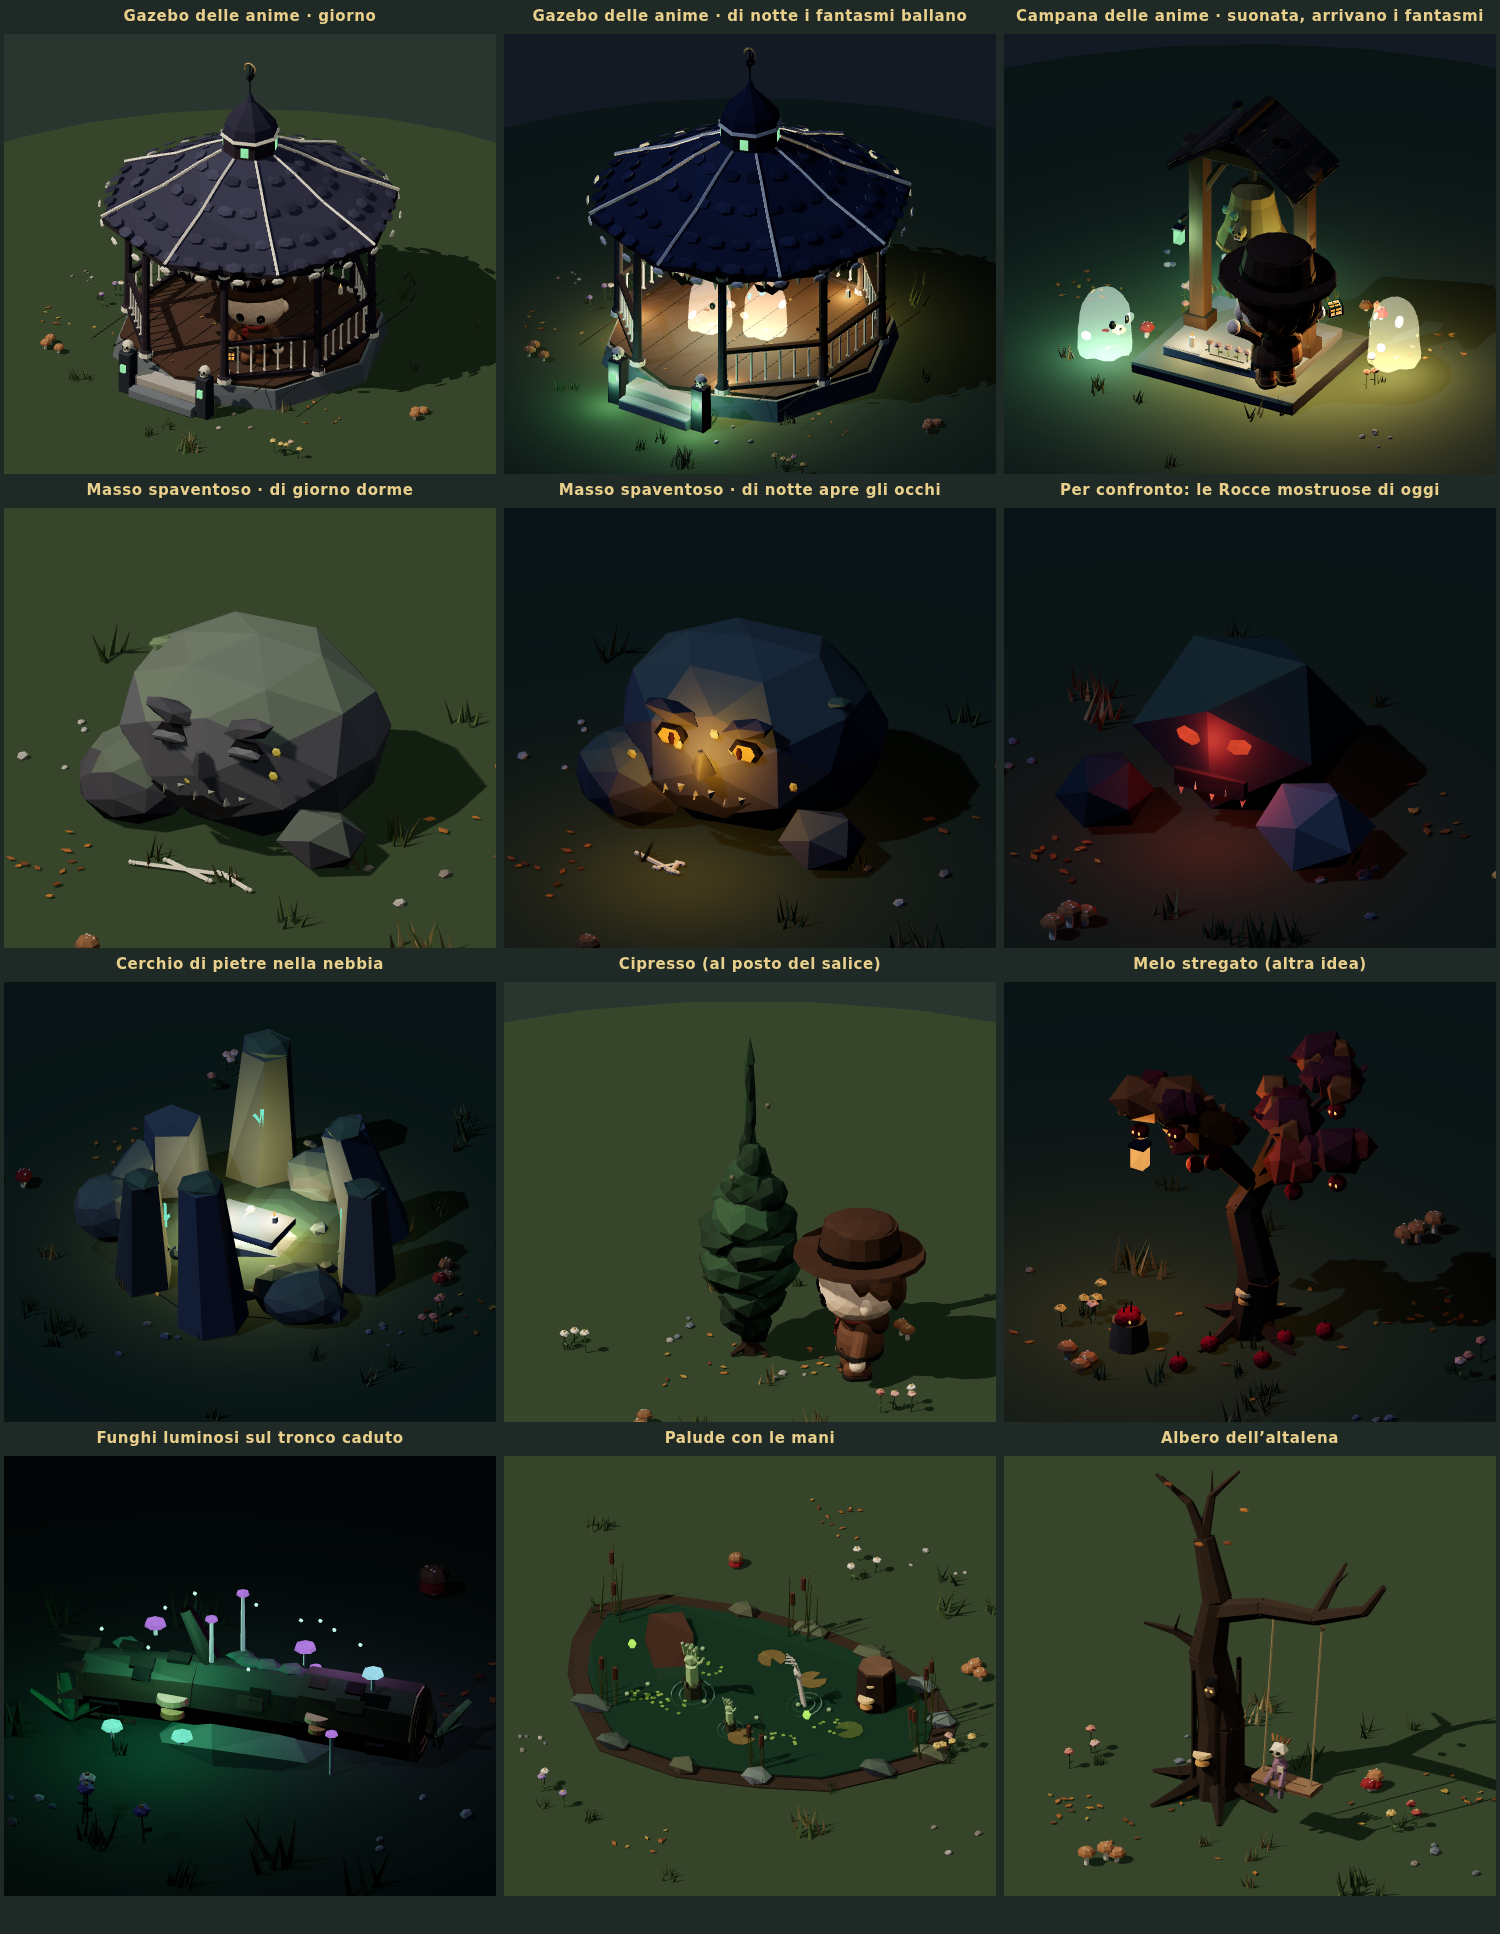
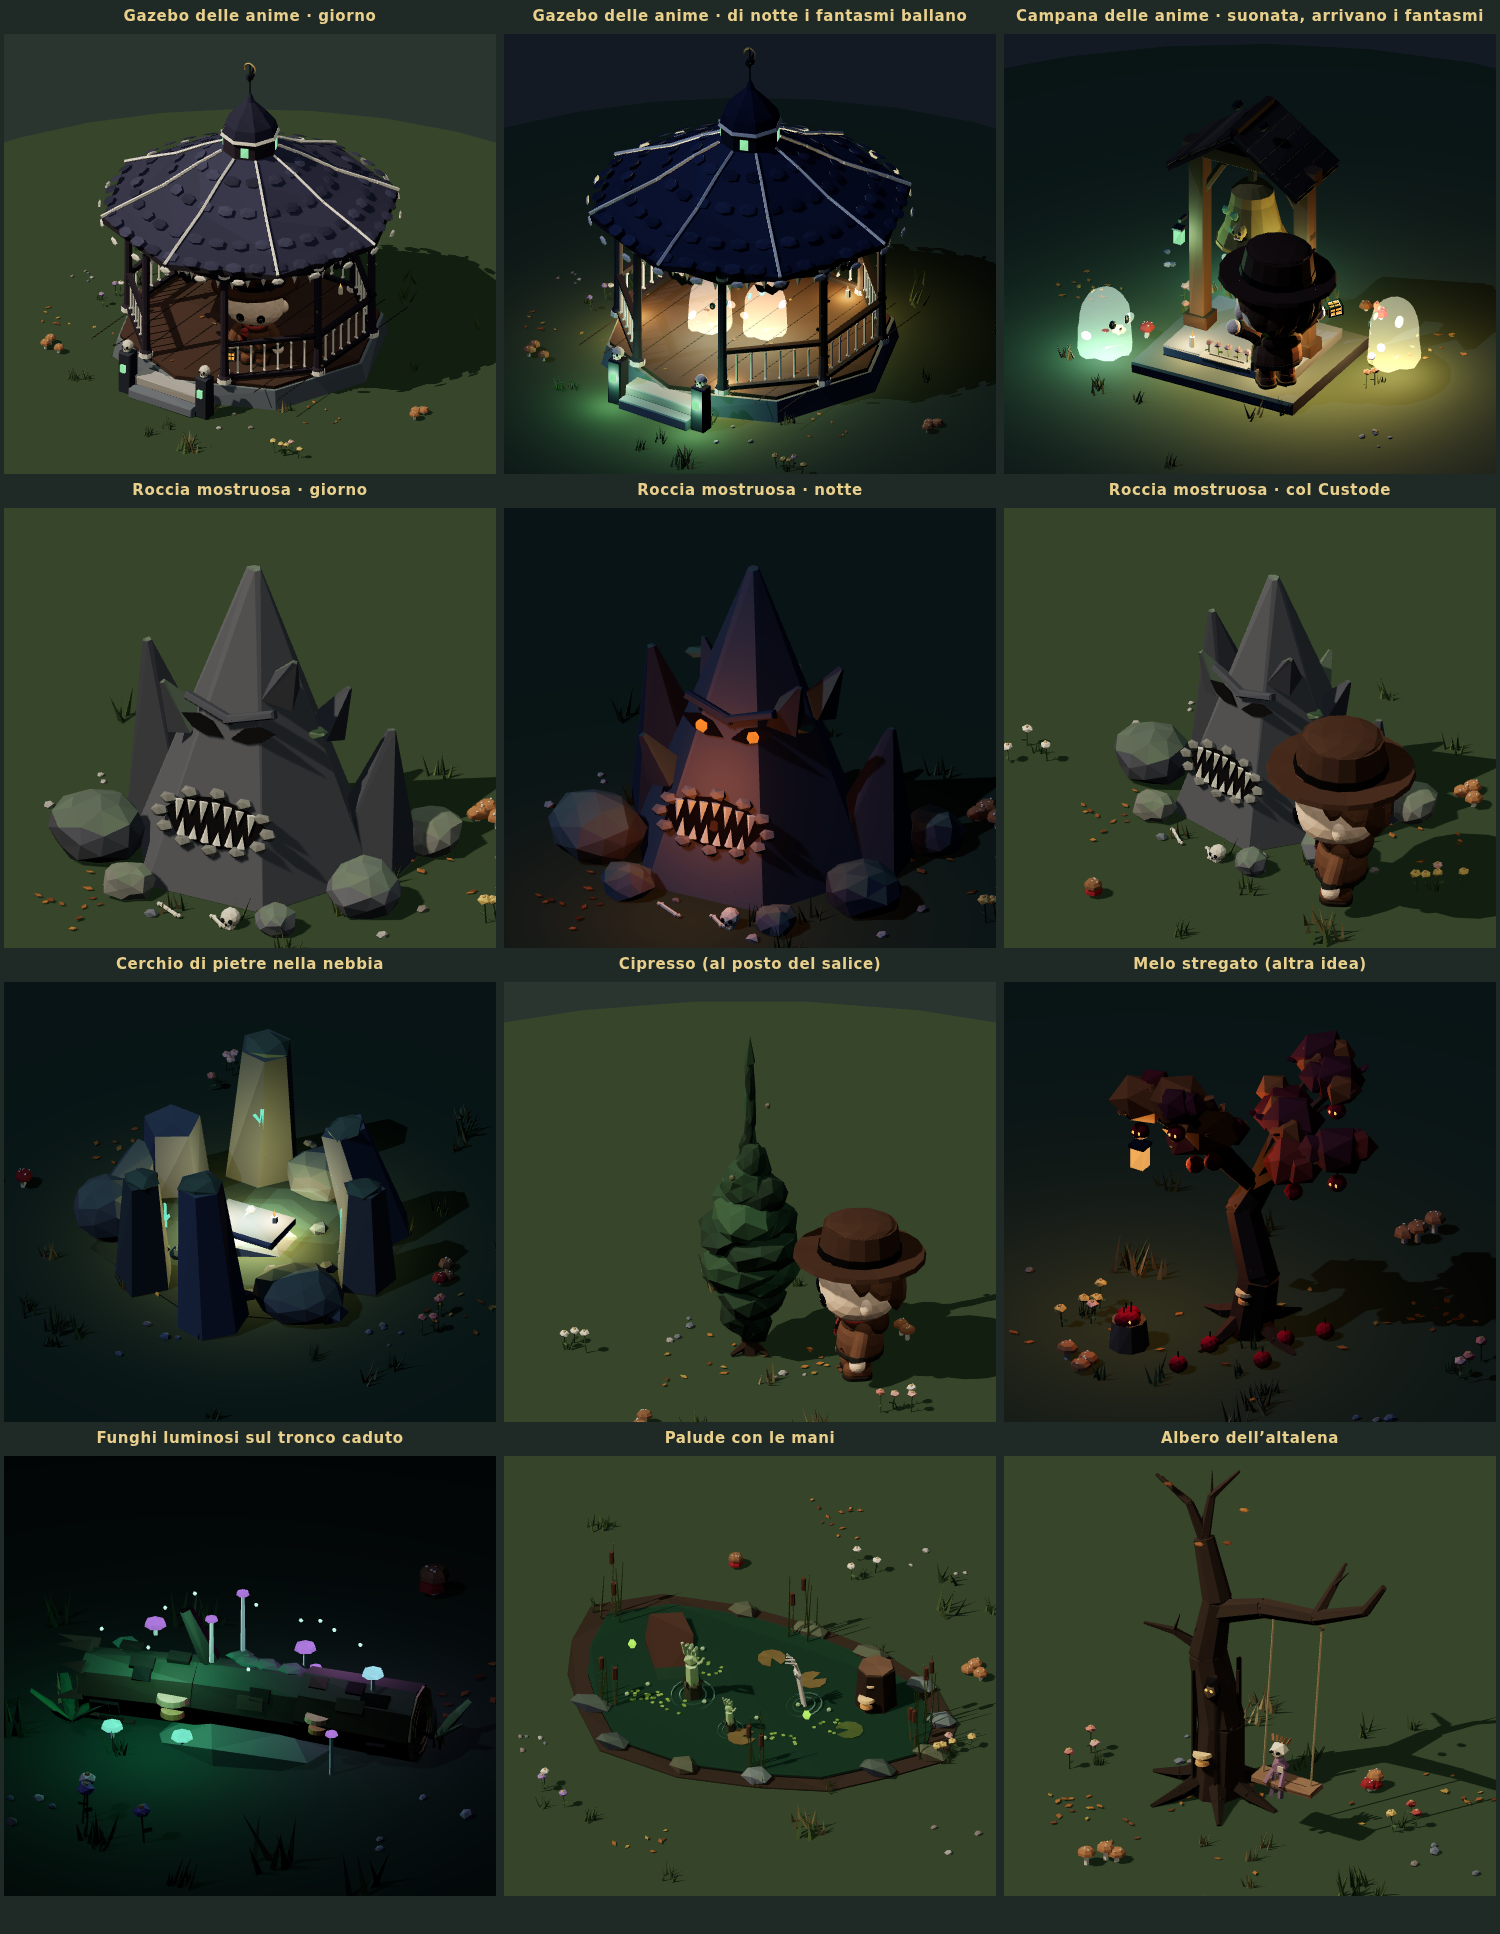
Anteprima: roccia mostruosa appuntita al posto del masso
Piccola montagna a sei facce con due guglie minori, massi e muschio ai
lati; sulla faccia davanti una bocca scavata con i denti aguzzi e sopra
due cavità per gli occhi, che di notte brillano (anche la gola).

Claude-Session: https://claude.ai/code/session_01U6u5RojYrwYjZd8sSRU7em

diff --git a/Prototype-3d/src/render/lowpoly/newItems2.ts b/Prototype-3d/src/render/lowpoly/newItems2.ts
@@ -475,41 +475,61 @@ export function witchAppleLP(lit = true): LPModel {
 }
 
 /**
- * Masso spaventoso (2×2): un unico grande masso muschioso con la fronte
- * aggrottata e la bocca a crepa piena di denti di pietra; di giorno dorme
- * (palpebre chiuse), di notte apre due occhi ambra che brillano.
+ * Roccia mostruosa (2×2): una piccola montagna appuntita con due guglie
+ * minori, massi ai lati e muschio sulle cenge; davanti una bocca scavata
+ * con i denti aguzzi e sopra due cavità per gli occhi (di notte un bagliore).
  */
-export function scaryBoulderLP(night: boolean): LPModel {
-  const lp = new LP(`new2:boulder:${night}`);
+export function fangRockLP(night: boolean): LPModel {
+  const lp = new LP(`new2:fang:${night}`);
   const r = lp.rng;
-  const S = '#5d6068', S2 = '#4a4c54';
-  lp.blob(0, 0.5, -0.05, 0.75, 0.55, 0.62, S, { detail: 1, vary: 0.08, jitter: 0.06, topTint: LPC.moss, topAmount: 0.6, ao: 0.35 });
-  lp.blob(-0.55, 0.22, 0.25, 0.32, 0.25, 0.3, S2, { detail: 1, vary: 0.1, jitter: 0.05, topTint: LPC.moss, topAmount: 0.5 });
-  lp.blob(0.6, 0.15, 0.35, 0.25, 0.17, 0.22, S2, { vary: 0.1, jitter: 0.04, topTint: LPC.moss, topAmount: 0.4 });
-  // arcate sopraccigliari aggrottate
-  for (const s of [-1, 1]) lp.push([s * 0.22, 0.78, 0.48], s * -0.25, 0, s * 0.35).blob(0, 0, 0, 0.18, 0.06, 0.08, S2, { jitter: 0.01, vary: 0.08 }).pop();
-  // occhi: incavi scuri; di notte iridi ambra che brillano, di giorno palpebre chiuse
-  for (const s of [-1, 1]) {
-    lp.blob(s * 0.22, 0.66, 0.5, 0.11, 0.07, 0.04, '#1a1a1e', { jitter: 0 });
-    if (night) {
-      lp.blob(s * 0.22, 0.66, 0.53, 0.075, 0.05, 0.02, '#ffb02a', { bucket: 'glow', jitter: 0 });
-      lp.blob(s * 0.2, 0.66, 0.545, 0.022, 0.04, 0.01, '#3a1a0a', { jitter: 0 }); // pupilla a fessura
-    } else {
-      lp.push([s * 0.22, 0.66, 0.53], 0, 0.2).blob(0, 0, 0, 0.11, 0.035, 0.04, S, { jitter: 0 }).pop();
-      lp.box(s * 0.22, 0.645, 0.565, 0.14, 0.008, 0.006, '#2a2a30', { jitter: 0 });
-    }
+  const S = '#62656b', S2 = '#4d5058', S3 = '#73746f';
+  const mossy = { topTint: LPC.moss, topAmount: 0.65 };
+  // guglia principale: tronco di piramide a sei facce, una faccia piatta verso +z (il viso)
+  const H = 1.9, R0 = 0.78, R1 = 0.04;
+  const rAt = (y: number) => R0 + (R1 - R0) * (y / H);
+  lp.push([0, 0, -0.05], Math.PI / 6).cyl(0, 0, 0, R0, R1, H, 6, S, { vary: 0.07, jitter: 0.015, ao: 0.35, ...mossy }).pop();
+  // cenge e spigoli di roccia che rompono le facce
+  for (let i = 0; i < 6; i++) {
+    const a = (i / 6) * Math.PI * 2, y = r.range(0.3, 1.2);
+    if (Math.abs(Math.sin(a / 2)) < 0.3) continue; // lascia libero il viso
+    lp.push([Math.sin(a) * rAt(y) * 0.9, y, -0.05 + Math.cos(a) * rAt(y) * 0.9], a, 0.5).cyl(0, 0, 0, 0.14, 0.02, 0.32, 4, S2, { jitter: 0.01, vary: 0.08, ...mossy }).pop();
   }
-  // naso a sperone e bocca a crepa con i denti di pietra
-  lp.push([0, 0.52, 0.56], 0, 0.3).cyl(0, 0, 0, 0.08, 0.02, 0.14, 4, S2, { jitter: 0.01 }).pop();
-  const mouth = new THREE.Shape(); mouth.moveTo(-0.3, 0); mouth.lineTo(-0.15, -0.05); mouth.lineTo(0, -0.02); mouth.lineTo(0.14, -0.06); mouth.lineTo(0.3, 0.01); mouth.lineTo(0.15, -0.11); mouth.lineTo(-0.15, -0.1); mouth.closePath();
-  lp.push([0, 0.4, 0.57], 0, -0.2).plate(mouth, 0.02, '#141418', { ao: 0 }).pop();
-  for (let i = 0; i < 6; i++) lp.push([-0.22 + i * 0.09, 0.39, 0.585], 0, 0, i % 2 ? Math.PI : 0).cyl(0, -0.03, 0, 0.025, 0, 0.05, 3, '#8a8a80', { jitter: 0 }).pop();
-  // muschio, licheni gialli, ciuffi alla base, qualche ossicino
-  for (let i = 0; i < 6; i++) moss(lp, r.range(-0.6, 0.6), r.range(0.3, 0.9), r.range(-0.3, 0.4), 0.08);
-  for (let i = 0; i < 5; i++) lp.blob(r.range(-0.5, 0.5), r.range(0.25, 0.85), 0.5 + r.range(-0.05, 0.05), 0.03, 0.03, 0.01, '#b8a84a', { jitter: 0 });
-  for (let i = 0; i < 7; i++) { const a = r.range(0, 6.28); grassTuft(lp, Math.cos(a) * 0.85, Math.sin(a) * 0.75, 1.1, ['#55603a', '#6b6242', '#4a5a36']); }
-  for (let i = 0; i < 3; i++) boneStick(lp, [r.range(-0.4, 0.4), 0.02, 0.7], [r.range(-0.4, 0.4), 0.02, 0.8], 0.012, LPC.bone);
-  if (night) lp.light(0, 0.66, 0.8, '#ffb02a', 0.35, 2.6, 0.15, 0.5);
+  // due guglie minori ai fianchi, appena inclinate
+  for (const [x, z, h, rr, tilt] of [[-0.62, -0.35, 1.15, 0.38, 0.18], [0.66, -0.25, 0.85, 0.32, -0.2]] as const) {
+    lp.push([x, 0, z], r.range(0, 1), 0, tilt).cyl(0, 0, 0, rr, 0.03, h, 5, S2, { vary: 0.08, jitter: 0.02, ao: 0.3, ...mossy }).pop();
+  }
+  // il viso, sulla faccia frontale inclinata
+  const face = (y: number) => [0, y, -0.05 + rAt(y) * Math.cos(Math.PI / 6) + 0.005] as V3;
+  const tilt = -Math.atan((R0 - R1) * Math.cos(Math.PI / 6) / H);
+  // occhi: due cavità a mandorla inclinate (arrabbiate) sotto le arcate
+  for (const s of [-1, 1]) {
+    lp.push(face(0.98), 0, tilt).push([s * 0.17, 0, 0], 0, 0, s * 0.3);
+    const eye = new THREE.Shape(); eye.moveTo(-0.15, 0); eye.quadraticCurveTo(0, 0.12, 0.15, 0); eye.quadraticCurveTo(0, -0.09, -0.15, 0);
+    lp.plate(eye, 0.012, '#121216', { ao: 0 });
+    if (night) lp.push([0.0, -0.005, 0.013]).blob(0, 0, 0, 0.05, 0.04, 0.006, '#ff8a2a', { bucket: 'glow', jitter: 0 }).pop();
+    lp.box(0, 0.095, 0.02, 0.34, 0.05, 0.07, S2, { bevel: 0.01, jitter: 0.008 }); // arcata
+    lp.pop().pop();
+  }
+  // bocca: cavità larga e irregolare con i denti aguzzi sopra e sotto
+  lp.push(face(0.45), 0, tilt);
+  const m = new THREE.Shape();
+  m.moveTo(-0.34, 0.02); m.lineTo(-0.2, 0.12); m.lineTo(0, 0.15); m.lineTo(0.2, 0.11); m.lineTo(0.34, 0.03); m.lineTo(0.22, -0.12); m.lineTo(0, -0.16); m.lineTo(-0.24, -0.11); m.closePath();
+  lp.plate(m, 0.014, '#0e0e12', { ao: 0 });
+  if (night) lp.blob(0, -0.02, 0.01, 0.16, 0.06, 0.005, '#5a2010', { bucket: 'glow', jitter: 0 }); // brace in gola
+  // labbro di roccia attorno
+  for (let k = 0; k < 12; k++) { const a = (k / 12) * Math.PI * 2; lp.blob(Math.cos(a) * 0.36, Math.sin(a) * 0.17, 0.02, 0.06, 0.04, 0.04, S3, { jitter: 0.008 }); }
+  const TOOTH = '#d8d2c0';
+  for (let k = 0; k < 7; k++) { const x = -0.24 + k * 0.08, h = k % 2 ? 0.09 : 0.13; lp.push([x, 0.12 - Math.abs(x) * 0.1, 0.03]).cyl(0, -h, 0, 0.0, 0.03, h, 4, TOOTH, { jitter: 0 }).pop(); }
+  for (let k = 0; k < 6; k++) { const x = -0.2 + k * 0.08, h = k % 2 ? 0.08 : 0.11; lp.push([x, -0.13 + Math.abs(x) * 0.08, 0.03]).cyl(0, 0, 0, 0.028, 0.0, h, 4, TOOTH, { jitter: 0 }).pop(); }
+  lp.pop();
+  // massi ai lati, sassi, muschio, ciuffi; qualche ossicino davanti alla bocca
+  for (const [x, z, sx, sy] of [[-0.85, 0.35, 0.3, 0.22], [0.9, 0.3, 0.24, 0.18], [-0.45, 0.75, 0.16, 0.12], [0.55, 0.78, 0.13, 0.1], [0.95, -0.55, 0.2, 0.15]] as const) lp.blob(x, sy * 0.7, z, sx, sy, sx * 0.9, r.pick([S, S2, S3]), { detail: 1, vary: 0.1, jitter: 0.04, ...mossy });
+  for (let i = 0; i < 6; i++) moss(lp, r.range(-0.6, 0.6), r.range(0.2, 1.1), r.range(-0.5, 0.2), 0.08);
+  pebbles(lp, -0.9, 0.4, 0.9, 0.95, 6);
+  for (let i = 0; i < 8; i++) { const a = r.range(0, 6.28); grassTuft(lp, Math.cos(a) * 0.95, Math.sin(a) * 0.85, 1.1, ['#55603a', '#6b6242', '#4a5a36']); }
+  for (let i = 0; i < 2; i++) boneStick(lp, [-0.2 + i * 0.35, 0.02, 0.82], [-0.05 + i * 0.3, 0.02, 0.9], 0.012, LPC.bone);
+  skull(lp, 0.28, 0.0, 0.85, 0.6);
+  if (night) lp.light(0, 0.8, 0.9, '#ff8a2a', 0.3, 2.4, 0.3, 0.5);
   return lp.build();
 }
 

diff --git a/Prototype-3d/src/proto/items.ts b/Prototype-3d/src/proto/items.ts
@@ -10,7 +10,6 @@ import * as N from '../render/lowpoly/newItems.ts';
 import * as M from '../render/lowpoly/newItems2.ts';
 import { LP_SCENERY } from '../render/lowpoly/index.ts';
 import { lowpolyGrave } from '../render/lowpoly/graves.ts';
-import { monsterRocksLP } from '../render/lowpoly/extras.ts';
 import { drawIcon, iconUrl } from '../ui/icons.ts';
 import { animateRig, buildRig, rigLightPos, type CharacterKind, type Pose } from '../view/characters.ts';
 import { assemble, handPos, headAt, headCenter, headFront, humanSpec, onSkin, HUMAN_PIVOTS, DEG, O } from '../render/lowpoly/v2/custode.ts';
@@ -271,7 +270,7 @@ function bellRung(): THREE.Group {
   return g;
 }
 
-function boulder(night: boolean): THREE.Group { return group(inst(M.scaryBoulderLP(night)), lawn(1.1, 1.8, 14, 21)); }
+function boulder(night: boolean): THREE.Group { return group(inst(M.fangRockLP(night)), lawn(1.1, 1.8, 14, 21)); }
 
 function witch2(): THREE.Group {
   const w = witch(); w.position.set(0.85, 0, 0.0); w.rotation.y = -0.65;
@@ -405,9 +404,9 @@ const SETS: Record<string, Panel[]> = {
     { title: 'Gazebo delle anime · giorno', yaw: 0.6, zoom: 2.7, center: [0, 1.25, 0], build: () => gazebo2(false) },
     { title: 'Gazebo delle anime · di notte i fantasmi ballano', night: true, dusk: true, yaw: 0.6, zoom: 2.5, center: [0, 1.25, 0], build: () => gazebo2(true) },
     { title: 'Campana delle anime · suonata, arrivano i fantasmi', night: true, dusk: true, yaw: 0.5, zoom: 2.0, center: [0, 1.1, 0], build: bellRung },
-    { title: 'Masso spaventoso · di giorno dorme', yaw: 0.45, zoom: 1.15, center: [0, 0.5, 0], build: () => boulder(false) },
-    { title: 'Masso spaventoso · di notte apre gli occhi', night: true, dusk: true, yaw: 0.45, zoom: 1.15, center: [0, 0.5, 0], build: () => boulder(true) },
-    { title: 'Per confronto: le Rocce mostruose di oggi', night: true, dusk: true, yaw: 0.45, zoom: 1.15, center: [0, 0.45, 0], build: () => group(inst(monsterRocksLP({ type: 'monster_rocks', variant: 0, seed: 1, dirty: false, broken: false, lit: true })), lawn(1.1, 1.8, 14, 22)) },
+    { title: 'Roccia mostruosa · giorno', yaw: 0.45, zoom: 1.3, center: [0, 0.85, 0], build: () => boulder(false) },
+    { title: 'Roccia mostruosa · notte', night: true, dusk: true, yaw: 0.45, zoom: 1.3, center: [0, 0.85, 0], build: () => boulder(true) },
+    { title: 'Roccia mostruosa · col Custode', yaw: 0.75, pitch: 0.6, zoom: 1.6, center: [0, 0.7, 0.2], build: () => group(boulder(false), char('custode', 'idle', [1.25, 0, 0.55], -0.9)) },
     { title: 'Cerchio di pietre nella nebbia', night: true, dusk: true, yaw: 0.5, pitch: 0.6, zoom: 1.75, center: [0, 0.4, 0], build: () => group(inst(M.stoneCircleLP()), lawn(1.5, 2.3, 18, 14)) },
     { title: 'Cipresso (al posto del salice)', yaw: 0.55, zoom: 1.8, center: [0, 1.4, 0], build: () => group(inst(M.cypressLP()), lawn(0.6, 1.6, 14, 15), char('custode', 'idle', [0.95, 0, -0.2], -0.9)) },
     { title: 'Melo stregato (altra idea)', night: true, dusk: true, yaw: 0.55, zoom: 1.35, center: [0, 0.9, 0], build: () => group(inst(M.witchAppleLP()), lawn(1.0, 1.8, 14, 17)) },
